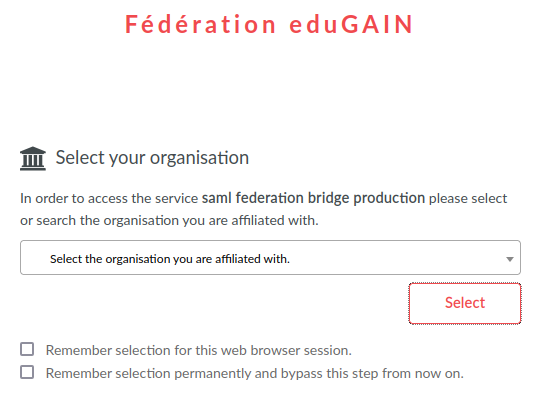
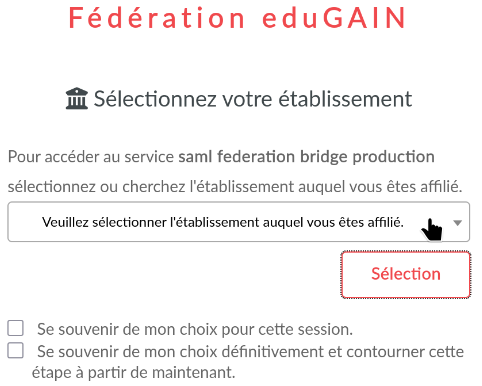
2e relecture

diff --git a/TP/src/part2/gitlab/5-travail-equipe/2-projet-commun.md b/TP/src/part2/gitlab/5-travail-equipe/2-projet-commun.md
@@ -7,16 +7,16 @@ cuisine à plusieurs ! Dans cette partie, vous allez former des **équipes de 2 
 
 ## Création de la brigade
 
-Dans chaque groupe, désignez un **chef de projet** — le _chef cuisinier_, si
-vous préférez. C’est cette personne qui sera responsable de créer le dépôt
-commun au sein d’un groupe privé dans le sous-groupe
+Dans chaque groupe, désignez un chef de projet, que nous appellerons dans la
+suite le **chef cuisinier**. C’est cette personne qui sera responsable de créer
+le dépôt commun au sein d’un groupe privé dans le sous-groupe
 [Brigades](https://gitlab.in2p3.fr/git-kitchen/brigades) sur GitLab. Prenez
 ensuite un moment pour choisir ensemble un nom de brigade original et
 représentatif.
 
-Le _chef cuisinier_ devra ensuite se signaler (pour nous permettre de vérifier
-l’équilibre des groupes), puis créer le sous-groupe de sa brigade dans le
-sous-groupe [Brigades](https://gitlab.in2p3.fr/git-kitchen/brigades). Nous
+Le chef cuisinier devra ensuite se signaler (pour permettre aux formateurs de
+vérifier l’équilibre des groupes), puis créer le sous-groupe de sa brigade dans
+le sous-groupe [Brigades](https://gitlab.in2p3.fr/git-kitchen/brigades). Nous
 conseillons à tous les membres de l'équipe de suivre ce que fait le chef
 cuisinier sur son poste afin que chacun se familiarise avec la création de
 groupe sur GitLab.
@@ -35,30 +35,31 @@ Pour créer le sous-groupe :
 
 ## Inviter les rédacteurs et gérer les permissions
 
-Le _chef cuisinier_ peut désormais inviter ses camarades à rejoindre sa brigade.
+Le chef cuisinier peut désormais inviter ses camarades à rejoindre sa brigade.
 Depuis la page du sous-groupe nouvellement créé, sélectionnez dans la barre
 latérale **Manage > Members**, puis cliquez sur le bouton bleu **Invite
 members** :
 
 ![Invite members](../../../images/invite-members-gitlab.png)
 
-Ajoutez les identifiants GitLab de vos coéquipiers et attribuez-leur un rôle
-adapté :
+Ajoutez les identifiants GitLab de vos coéquipiers et attribuez-leurs un
+[rôle](https://docs.gitlab.com/user/permissions/) adapté, qui définit ce qu'ils
+ont la permission de faire au sein de la brigade :
 
-| **Rôle GitLab**      | **Permissions principales**                                                                 | **Utilisation recommandée**                |
-| -------------------- | ------------------------------------------------------------------------------------------- | ------------------------------------------ |
-| **Guest**            | Peut voir et commenter des _issues_. Pas d’accès au dépôt privé ni de _push_.               | Invités, relecteurs ponctuels, testeurs    |
-| **Reporter**         | Peut lire le code, les _pipelines_/rapports et créer des _issues_. Pas de _push_.           | Relecteurs techniques (QA, PO)             |
-| **Planner**          | Peut planifier: créer/gérer _issues_, _milestones_. Pas d’accès au code.                    | Coordinateurs, chefs de projets            |
-| **Developer**        | Peut créer des branches, pousser sur branches non protégées et ouvrir des _merge requests_. | Développeurs                               |
-| **Maintainer**       | Peut fusionner les _merge requests_, gérer branches protégées, la CI/CD et les membres.     | Chefs de projet ou DevOps dédiés           |
-| **Owner**            | Contrôle total du groupe/projet (visibilité, transfert, suppression).                       | Propriétaire du groupe (rarement délégué)  |
+| **Rôle GitLab**      | **Permissions principales**                                                                         | **Utilisation recommandée**                      |
+| -------------------- | --------------------------------------------------------------------------------------------------- | ------------------------------------------------ |
+| **Guest**            | Peut voir et commenter des _issues_. Pas d’accès aux dépôts privés.                                 | Invités, relecteurs ponctuels, testeurs          |
+| **Planner**          | Peut planifier, c'est à dire créer et gérer des _issues_, _milestones_ etc. Pas d’accès aux dépôts. | Coordinateurs, chefs de projets si DevOps dédiés |
+| **Reporter**         | Peut lire le code, les _pipelines_/rapports et créer des _issues_. Pas de _push_.                   | Relecteurs techniques (QA, PO)                   |
+| **Developer**        | Peut créer des branches, pousser sur branches non protégées et ouvrir des _merge requests_.         | Développeurs                                     |
+| **Maintainer**       | Peut fusionner les _merge requests_, gérer les branches protégées, la CI/CD et les membres.         | Chefs de projet ou DevOps dédiés                 |
+| **Owner**            | Contrôle total du groupe/projet (visibilité, transfert, suppression).                               | Propriétaire du groupe (rarement délégué)        |
 
 
 ## Créer le livre de recettes collaboratif
 
 Une fois le sous-groupe créé, il faut maintenant créer le dépôt GitLab qui
-contiendra le **livre de recettes collaboratif**. Le _chef cuisinier_ suit pour
+contiendra le **livre de recettes collaboratif**. Le chef cuisinier suit pour
 cela les mêmes étapes que dans le [TP
 précédent](../4-depot-personnel/2-creation-depot.md) :
 
@@ -84,7 +85,7 @@ précédent](../4-depot-personnel/2-creation-depot.md) :
    avertis, héritée du sous-groupe).
 6. Cliquez sur **Create project**.
 
-Le _chef cuisinier_ accède alors à une page de projet GitLab vide, prête à accueillir
+Le chef cuisinier accède alors à une page de projet GitLab vide, prête à accueillir
 vos créations. Les membres de la brigade héritent automatiquement des
 permissions définies au niveau du sous-groupe et peuvent dès à présent
 contribuer au projet.

diff --git a/TP/src/part2/gitlab/4-depot-personnel/3-integration-continue.md b/TP/src/part2/gitlab/4-depot-personnel/3-integration-continue.md
@@ -37,7 +37,8 @@ nommé `.gitlab-ci.yml`.
 touch .gitlab-ci.yml
 ```
 
-Ce fichier décrit les différentes étapes (ou _stages_) que GitLab exécutera
+Ce fichier décrit les différentes étapes (ou
+[_stages_](https://docs.gitlab.com/ci/yaml/#stages)) que GitLab exécutera
 automatiquement sur ses
 [_runners_](https://docs.gitlab.com/runner/)[^custom-runners] — des machines
 virtuelles qui lancent vos _jobs_ CI/CD. Ces étapes forment ce qu’on appelle un
@@ -53,7 +54,7 @@ défaut, GitLab lance le _pipeline_ à chaque _push_ sur n’importe quelle bran
 
 Dans un premier temps, nous allons définir une seule étape, appelée
 `lint`[^lint], chargée de vérifier la qualité du texte. Ouvrez le fichier
-`.gitlab-ci.yml` avec votre éditeur préféré et ajoutez-y le contenu suivant :
+`.gitlab-ci.yml` avec votre éditeur préféré et ajoutez-y ce texte :
 
 [^lint]: C’est le nom généralement utilisé pour ce type d’étape dédiée à la
          vérification du code, mais rien ne vous empêche d’en choisir un autre.
@@ -84,7 +85,10 @@ grammaire_et_orthographe:
   # ... d'autres instructions viendront ici plus tard ...
 ```
 
-La propriété `image:` indique à GitLab d’utiliser cette image Docker pour exécuter le _job_, tandis que `stage:` précise l’étape à laquelle il appartient.
+La propriété [`image:`](https://docs.gitlab.com/ci/yaml/#image) indique à GitLab
+d’utiliser cette image Docker pour exécuter le _job_, tandis que
+[`stage:`](https://docs.gitlab.com/ci/yaml/#stage) précise l’étape du _pipeline_
+au sein de laquelle ce _job_ va s'exécuter.
 
 
 ### Installer Grammalecte
@@ -98,9 +102,10 @@ La commande d’installation est la suivante :
 python -m pip install git+https://gitlab.in2p3.fr/sonny.lion/grammalint.git
 ```
 
-Nous plaçons cette commande dans un bloc `before_script`, afin de séparer
-clairement la phase d’installation de celle d’exécution (question de lisibilité)
-:
+Nous plaçons cette commande dans un bloc
+[`before_script`](https://docs.gitlab.com/ci/yaml/#before_script), afin de
+séparer clairement la phase d’installation de celle d’exécution et ainsi
+d'améliorer la lisibilité[^before-script] :
 
 ```yml
 grammaire_et_orthographe:
@@ -110,13 +115,19 @@ grammaire_et_orthographe:
   # ... d'autres instructions viendront ici plus tard ...
 ```
 
+[^before-script]: Ici nous utilisons uniquement `before_script` pour améliorer
+                  la lisibilité du fichier de configuration GitLab CI. Mais dans
+                  des projets plus gros, cette directive permet de définir des
+                  étapes de préparation communes à plusieurs _jobs_, via la
+                  directive
+                  [`extends`](https://docs.gitlab.com/ci/yaml/#extends).
+
 
 ### Configurer l’analyse des fichiers
 
 Une fois `grammalint` installé, il faut indiquer à GitLab comment lancer
-l’analyse des fichiers Markdown.
-
-Pour vérifier un fichier spécifique, on utilise la commande suivante :
+l’analyse des fichiers Markdown. Pour vérifier un fichier spécifique, on utilise
+la commande suivante :
 
 ```bash
 python -m grammalint -i recettes/crepes-classiques.md
@@ -129,7 +140,9 @@ des sous-dossiers), on utilise la commande suivante :
 python -m grammalint -i recettes/**/*.md
 ```
 
-En intégrant cette seconde version à notre _pipeline_, le fichier complet devient :
+En intégrant cette seconde version à notre _pipeline_ via un bloc
+[`script:`](https://docs.gitlab.com/ci/yaml/#script), le fichier complet devient
+:
 
 ```yml
 stages:
@@ -161,7 +174,7 @@ Chaque ligne correspond à un _pipeline_ exécuté sur votre dépôt. La colonne
 **Status** indique son état (en cours, réussi, échoué, etc.), tandis que
 **Stages** affiche les différentes étapes et leur statut.
 
-Si le _pipeline_ ne s’exécute pas, vérifiez que :
+Si le _pipeline_ ne s’exécute pas, vérifiez que...
 
 - le fichier s’appelle bien `.gitlab-ci.yml` (avec le point au début) ;
 - il est placé à la racine du dépôt ;
@@ -240,19 +253,23 @@ directement depuis l’interface web.
 Pour générer un rapport JSON avec Grammalecte, modifiez le bloc `script:` ainsi :
 
 ```yml
-# ... instructions précédentes ...
-script:
-  - python -m grammalint -i recettes/**/*.md -o report.json
+grammaire_et_orthographe:
+  # ... instructions précédentes ...
+  script:
+    - python -m grammalint -i recettes/**/*.md -o report.json
 ```
 
-Puis ajoutez une section `artifacts:` pour conserver le fichier :
+Puis ajoutez une section
+[`artifacts:`](https://docs.gitlab.com/ci/yaml/#artifacts) pour conserver le
+fichier :
 
 ```yml
-# ... instructions précédentes ...
-artifacts:
-  paths:
-    - report.json
-  expire_in: 1 week # Durée de conservation (optionnelle, mais recommandée pour éviter l’encombrement du stockage)
+grammaire_et_orthographe:
+  # ... instructions précédentes ...
+  artifacts:
+    paths:
+      - report.json
+    expire_in: 1 week # Durée de conservation (optionnelle, mais recommandée pour éviter l’encombrement du stockage)
 ```
 
 Le fichier `report.json` apparaîtra alors dans la page du _job_, sous l’onglet

diff --git a/TP/src/part2/gitlab/5-travail-equipe/3-deploiement-continu.md b/TP/src/part2/gitlab/5-travail-equipe/3-deploiement-continu.md
@@ -120,10 +120,14 @@ pages:
 Ce _job_ est très proche de celui utilisé pour la vérification grammaticale. On
 y retrouve notamment :
 
-* l’étape à laquelle il appartient (`build`) ;
-* l’utilisation d’une image Docker spécifique (celle contenant _Astro_) ;
-* une étape `before_script` pour installer les dépendances ;
-* une étape `script` pour exécuter la commande de génération du site.
+* l’[étape](https://docs.gitlab.com/ci/yaml/#stage) à laquelle il appartient
+  (ici `build`) ;
+* l’utilisation d’une [image](https://docs.gitlab.com/ci/yaml/#image) Docker
+  spécifique (celle contenant _Astro_) ;
+* une étape [`before_script`](https://docs.gitlab.com/ci/yaml/#before_script)
+  pour installer les dépendances ;
+* une étape [`script`](https://docs.gitlab.com/ci/yaml/#script) pour exécuter la
+  commande de génération du site.
 
 ### Définir les _artefacts_ à publier
 
@@ -133,7 +137,7 @@ publiés une fois le site généré. La commande `npx astro build` crée un doss
 JavaScript et médias nécessaires au site web.
 
 Pour que GitLab conserve ce dossier après l’exécution du _job_, ajoutez la
-directive `artifacts` comme suit :
+directive [`artifacts`](https://docs.gitlab.com/ci/yaml/#artifacts) comme suit :
 
 ```yml
   # ... job pages ...
@@ -144,7 +148,8 @@ directive `artifacts` comme suit :
 
 Problème : par défaut, _GitLab Pages_ s’attend à publier le contenu d’un dossier
 nommé `public/`. Pour utiliser un autre répertoire, vous devez le préciser
-explicitement dans la configuration à l’aide de la directive `pages` :
+explicitement dans la configuration à l’aide de la directive
+[`pages`](https://docs.gitlab.com/ci/yaml/#pages) :
 
 ```yml
 pages:
@@ -253,9 +258,10 @@ quelle que soit la branche. Cela peut conduire à la publication de versions en
 cours de développement.
 
 Pour éviter cela, vous pouvez limiter le déploiement à la branche principale
-`main` en ajoutant une règle :
+`main` en ajoutant une [règle](https://docs.gitlab.com/ci/yaml/#rules) à un ou plusieurs _jobs_ :
 
 ```yml
+mon_job_de_deploiement:
   rules:
     - if: $CI_COMMIT_BRANCH == "main"
 ```
@@ -263,5 +269,5 @@ Pour éviter cela, vous pouvez limiter le déploiement à la branche principale
 Ainsi :
 
 - seules les modifications fusionnées dans `main` seront déployées ;
-- les _builds_ issus de branches secondaires seront simplement validés, sans
+- les _builds_ issus de branches secondaires seront simplement validées, sans
   publication.

diff --git a/TP/src/part2/gitlab/2-acces.md b/TP/src/part2/gitlab/2-acces.md
@@ -13,17 +13,21 @@ Pour y accéder, cliquez sur le bouton correspondant en-dessous du bouton bleu
 « Sign in ». Vous vous retrouverez alors face à l’invite de connexion du centre
 de calcul de l’IN2P3 (CC-IN2P3) :
 
+<center>
+
 ![Invite de connexion CC-IN2P3](../../../images/gitlab-login-ccin2p3.png)
 
-La méthode proposée à gauche ne convient que pour les personnes qui ont un
-compte local au centre de calcul, ce qui ne sera pas le cas de beaucoup d’entre
-vous. Heureusement, l'instance GitLab du CC-IN2P3 accepte aussi la
-connexion via des comptes informatiques des laboratoires de recherche du monde
-entier grâce à la fédération eduGAIN.
+</center>
 
-Pour y accéder, cliquez sur le bouton « EDUGAIN » à droite de l’invite. Cela
-vous conduira à une nouvelle page où vous pouvez choisir une institution
-académique auprès de laquelle vous possédez un compte informatique.
+La méthode proposée en haut ne convient que pour les personnes qui ont un compte
+local au centre de calcul, ce qui ne sera pas le cas de beaucoup d’entre vous.
+Heureusement, l'instance GitLab du CC-IN2P3 accepte aussi la connexion via des
+comptes informatiques des laboratoires de recherche du monde entier grâce à la
+fédération eduGAIN.
+
+Pour y accéder, cliquez sur le bouton « eduGAIN » en bas de l’invite. Cela vous
+conduira à une nouvelle page où vous pouvez choisir une institution académique
+auprès de laquelle vous possédez un compte informatique.
 
 <center>
 
@@ -153,7 +157,7 @@ Dès que vous nous l'aurez transmis, nous pourrons vous donner un accès de nive
 le groupe et ce qu'il contient. En particulier, vous pourrez accéder au contenu
 du dépôt [Recettes](https://gitlab.in2p3.fr/git-kitchen/recettes) et y pousser
 des branches de développement. Mais vous ne pourrez pas modifier directement le
-contenu de la branche `main`.
+contenu de sa branche `main`.
 
 Pour cela, vous devrez passer par une procédure de validation de notre part, la
 _merge request_, que nous allons explorer dans [l'étape suivante de ce

diff --git a/TP/src/part2/gitlab/4-depot-personnel/2-creation-depot.md b/TP/src/part2/gitlab/4-depot-personnel/2-creation-depot.md
@@ -164,9 +164,10 @@ vous faut donc :
 2. créer un commit local ;
 3. pousser ce commit sur le dépôt distant.
 
-Nous vous conseillons dans un premier temps de rester sur la branche `main`. Si
-besoin, relisez [le chapitre précédent](../3-contribution.md) pour vous
-remémorer la procédure.
+Nous vous conseillons dans un premier temps de rester sur la branche `main`, ce
+qui n'est pas un gros problème tant que vous travaillez tout seul. Si besoin,
+relisez [le chapitre précédent](../3-contribution.md) pour vous remémorer la
+procédure.
 
 Une fois ces étapes réalisées, vous pouvez vérifier l’état du dépôt local et
 distant avec :
@@ -178,7 +179,7 @@ git status
 
 L'historique devrait montrer votre commit (à la fois sur la version locale et
 distante de `main`), et le statut indiquer que la branche `main` suit bien
-`origin/main` et que le répertoire de travail est propre (clean).
+`origin/main` et que le répertoire de travail est propre (_clean_).
 
 
 ## Vérifier le contenu du dépôt sur GitLab
@@ -218,8 +219,8 @@ passer par des _merge requests_ pour intégrer des modifications.
 Essayer maintenant de modifier le fichier de recette
 `recettes/crepes-classiques.md` en local, de faire un commit, puis de pousser
 directement sur `main`. Si la protection est bien en place, GitLab devrait
-refuser le push avec un message d'erreur indiquant que la branche est protégée
-similaire à ceci :
+refuser le _push_ avec un message d'erreur indiquant que la branche est protégée
+:
 
 ```text
 ...
@@ -262,7 +263,7 @@ chaque modification.
 1. Ajoutez une image de présentation dans un dossier `images/` et référencez-la
    dans votre recette (champ `image:`).
 2. Poussez les changements et visualisez l'image dans l'interface web de GitLab.
-3. fusionnez vos modifications dans `main` via une _merge request_.
+3. Fusionnez vos modifications dans `main` via une _merge request_.
 
 ## Antisèche
 
